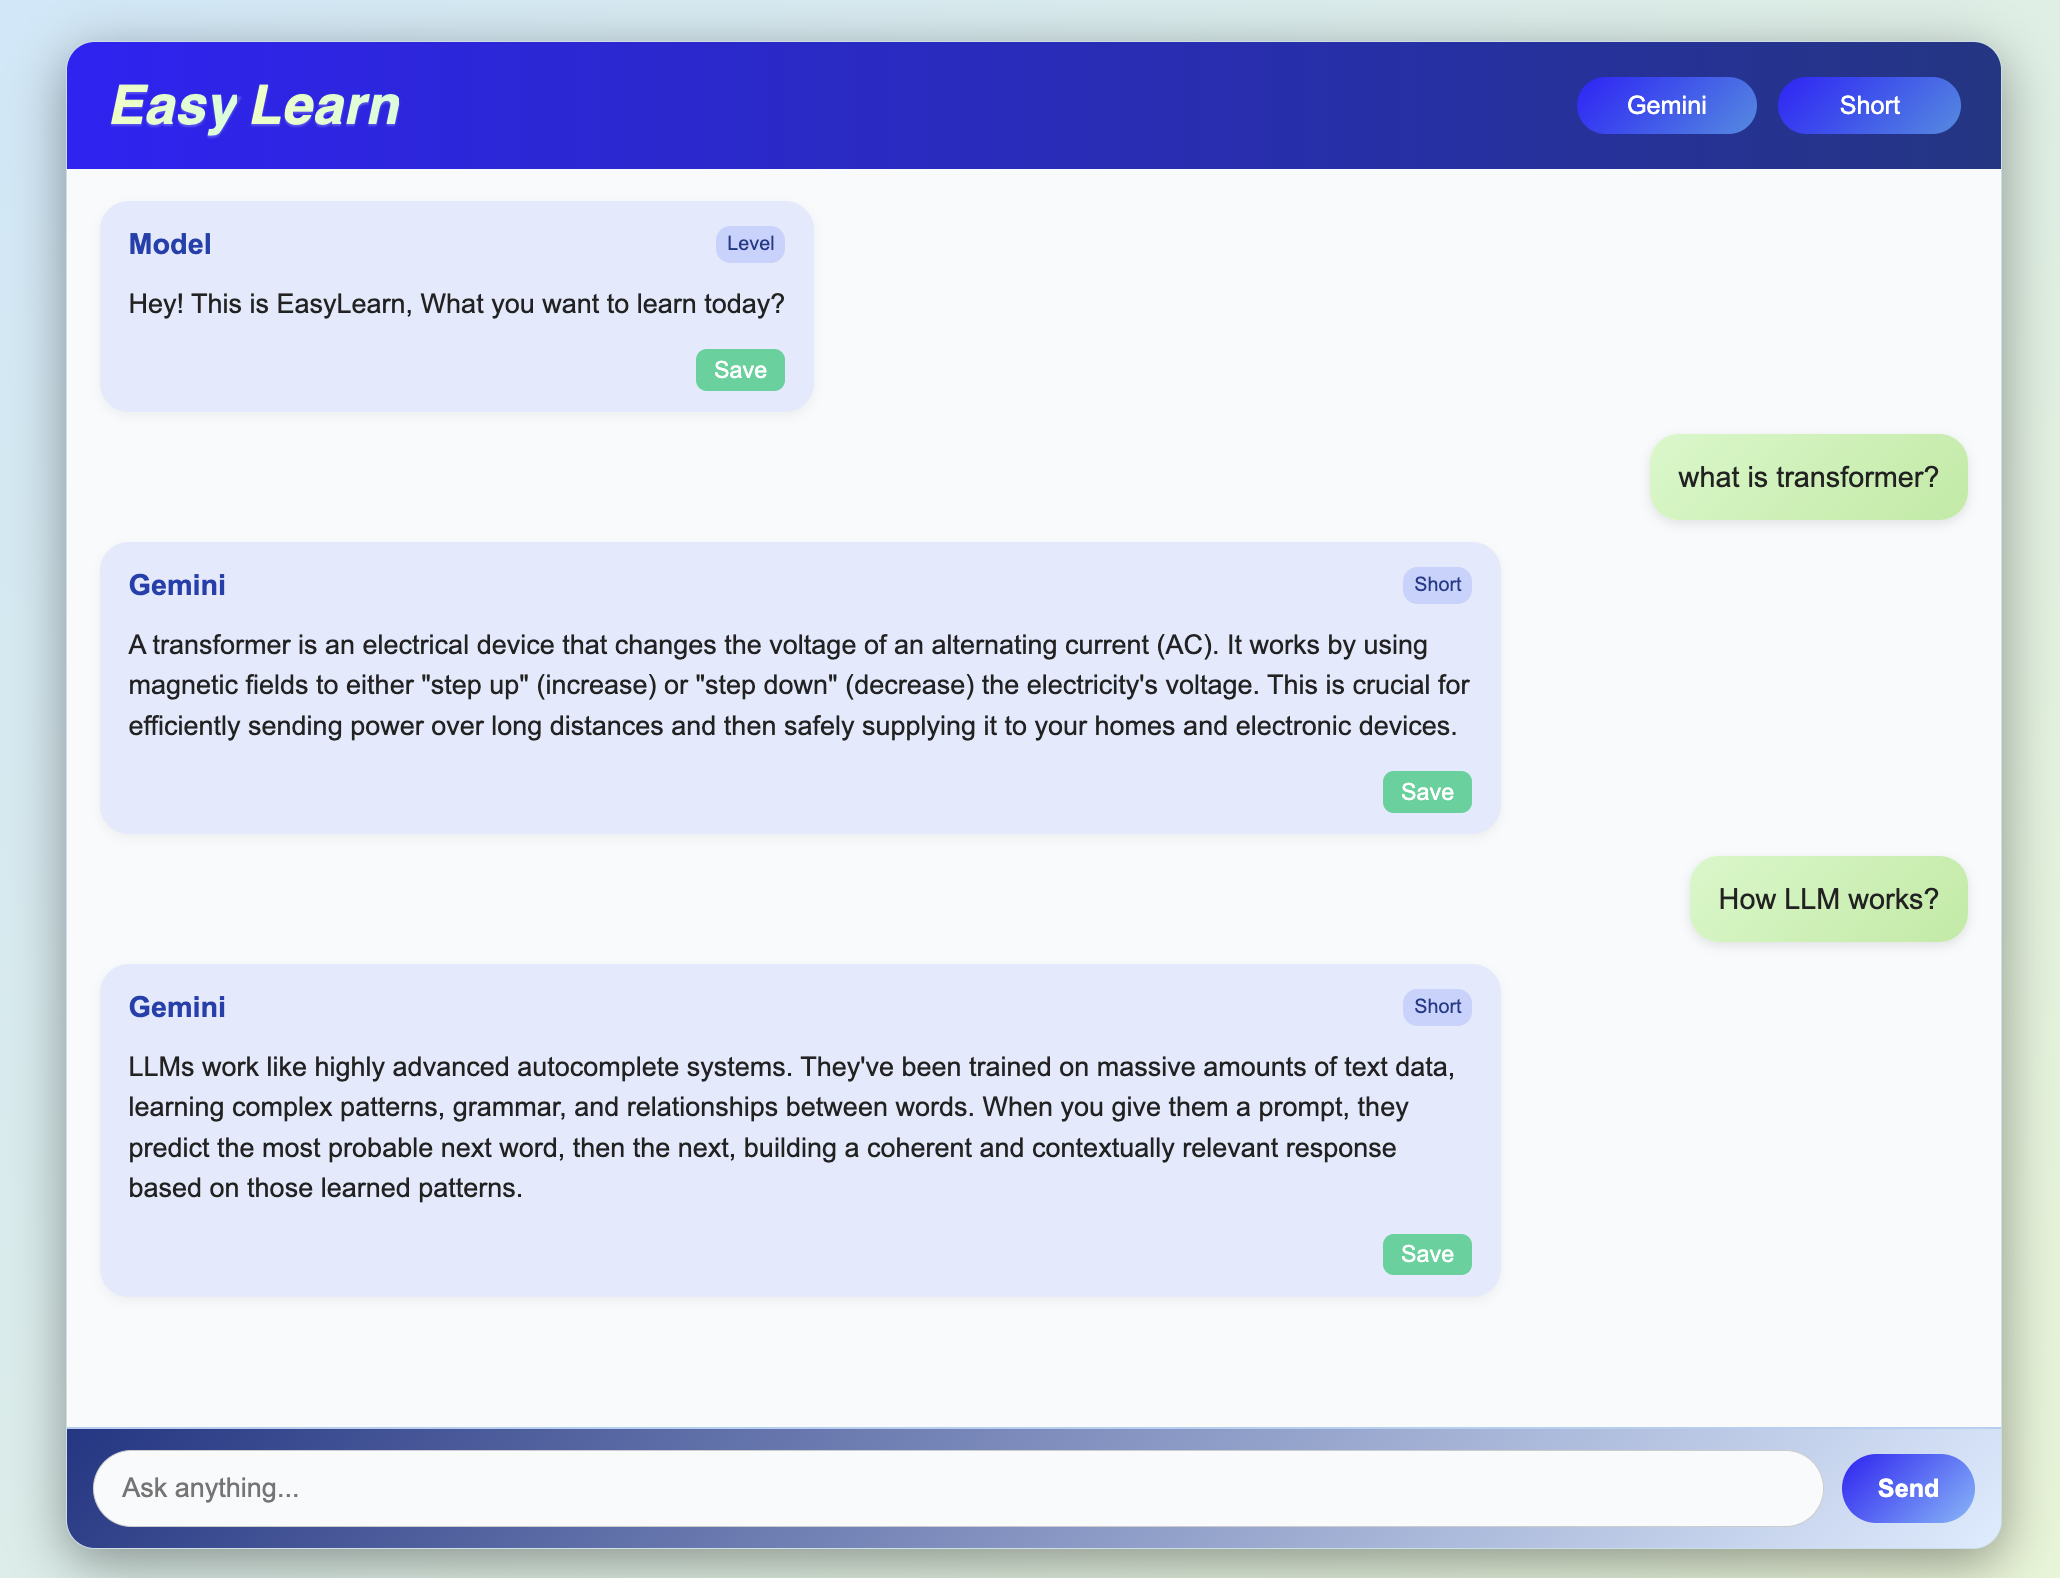
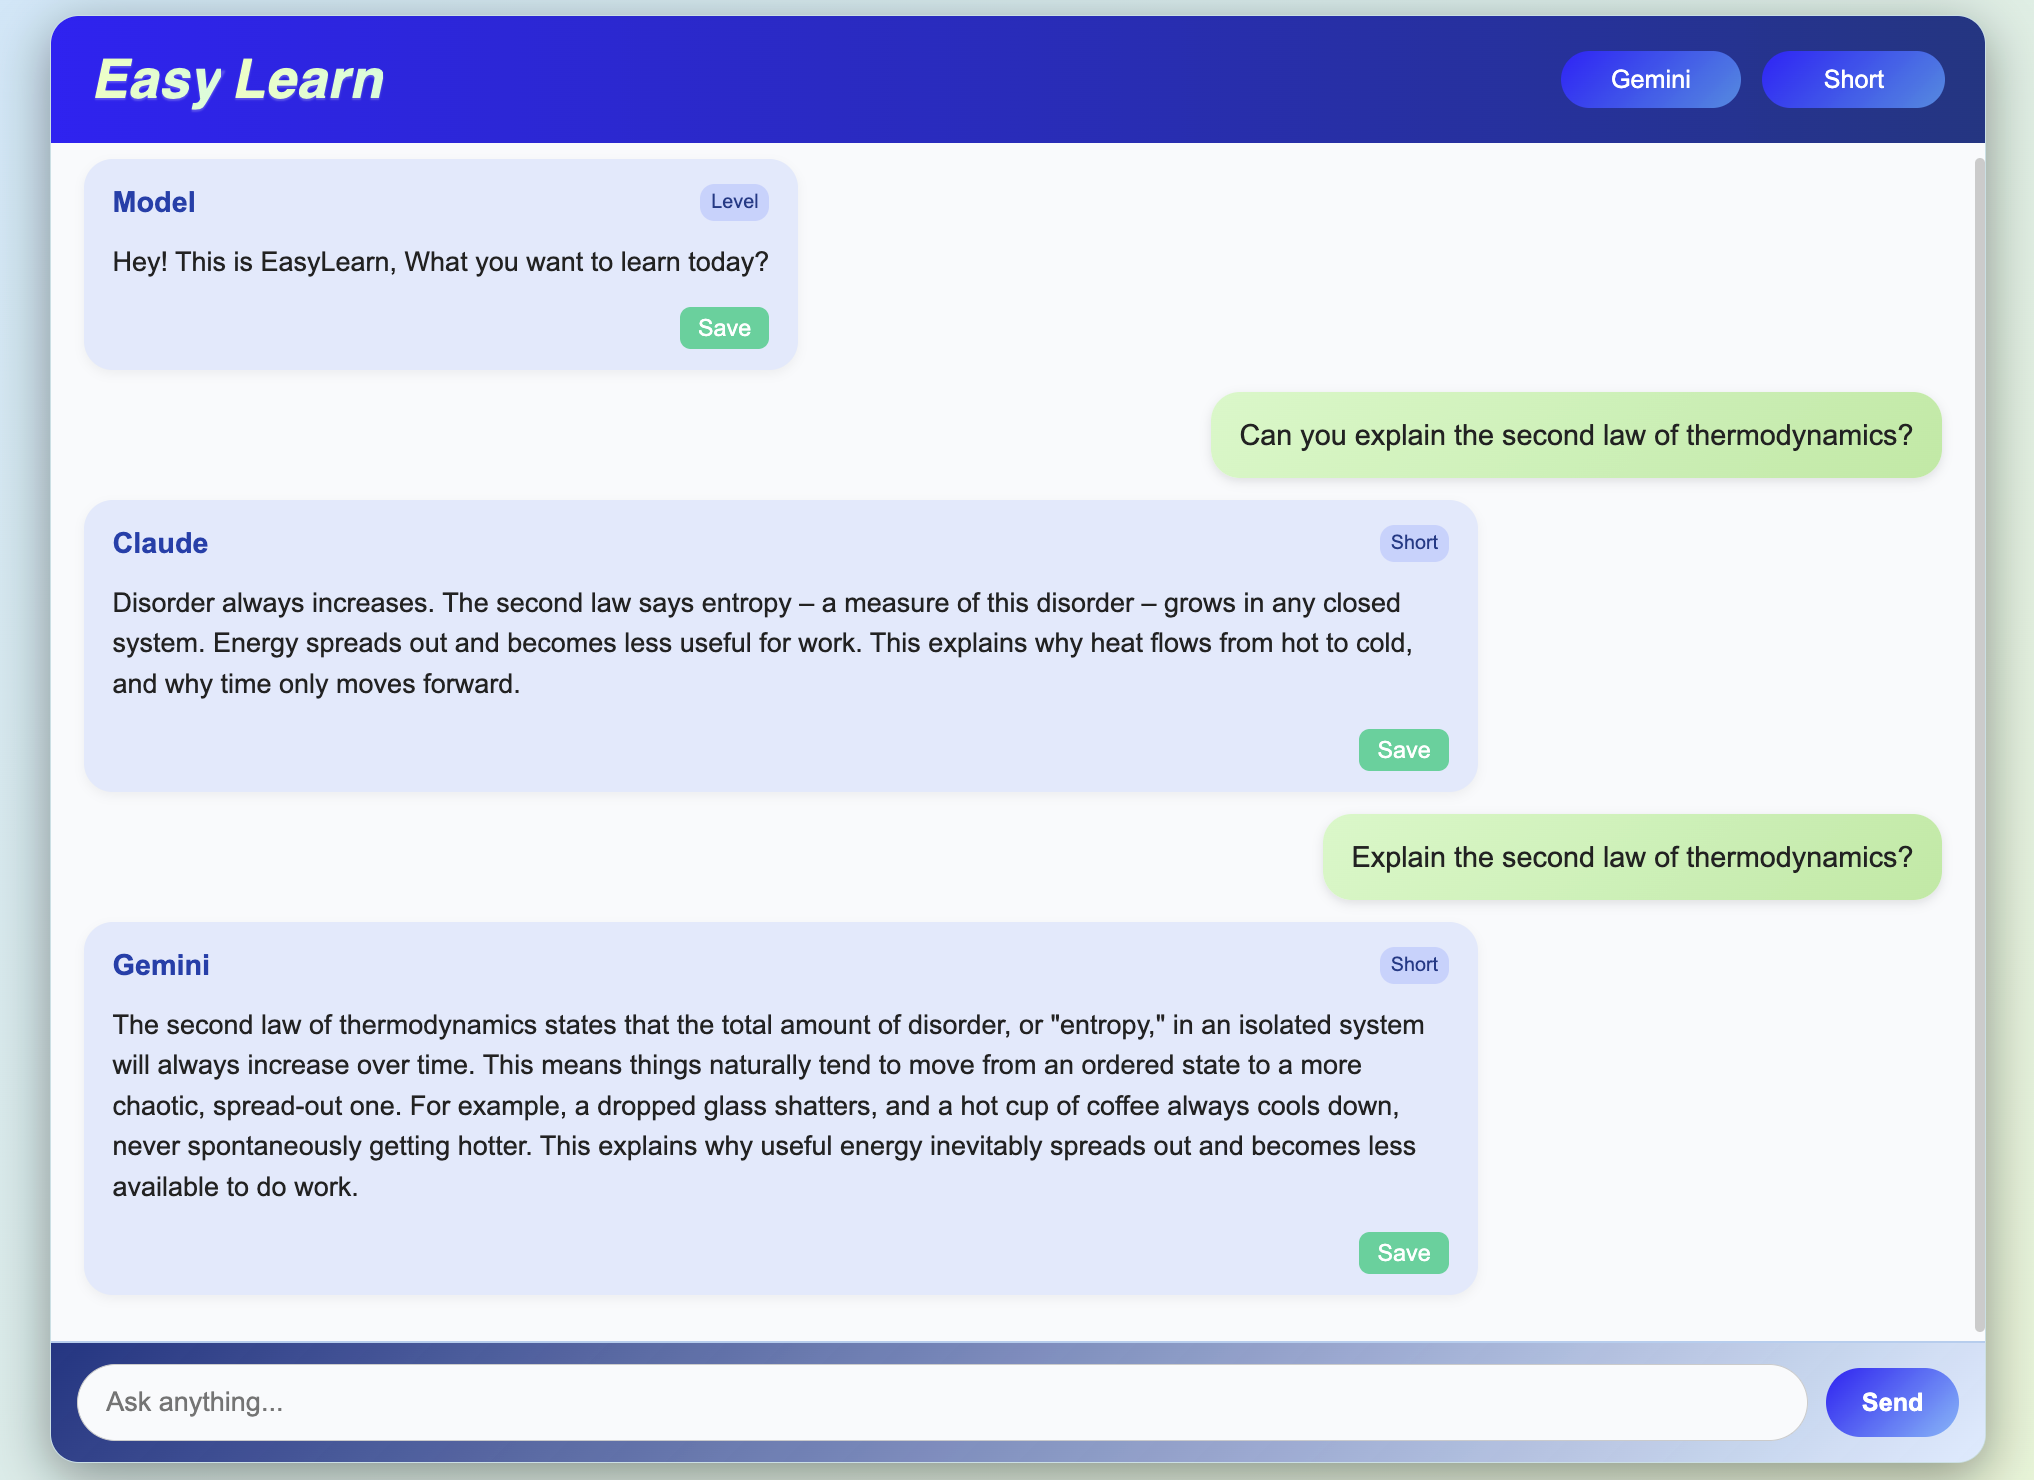
Updated backend with multiple AI models (Claude, DeepSeek); minor UI and code structure improvements

Changed region(s): [[0.0, 0.0, 0.9912, 0.9946]]

diff --git a/Frontend/my-app/src/Home/Home.jsx b/Frontend/my-app/src/Home/Home.jsx
@@ -1,12 +1,9 @@
 import { useState, useRef, useEffect } from "react";
 import "./Home.css";
 
-// Functions
 function Home() {
-  // UserQuery
+  // UserQuery, Model & Level
   const [query, setQuery] = useState("");
-
-  // Model & Level
   const [model, setModel] = useState("");
   const [level, setLevel] = useState("");
 
@@ -58,6 +55,7 @@ function Home() {
 
       // Updating AI response
       const data = await res.json();
+
       setMessages((prev) => [
         ...prev,
         {
@@ -68,7 +66,6 @@ function Home() {
         },
       ]);
     } catch (error) {
-      // Error Handling
       console.error("ERROR :", error);
       setMessages((prev) => [
         ...prev,
@@ -96,6 +93,7 @@ function Home() {
           <select value={model} onChange={(e) => setModel(e.target.value)}>
             <option value="Gemini">Gemini</option>
             <option value="DeepSeek">DeepSeek</option>
+            <option value="Claude">Claude</option>
           </select>
 
           {/* Select Level */}

diff --git a/Frontend/my-app/src/Home/Home.css b/Frontend/my-app/src/Home/Home.css
@@ -1,4 +1,3 @@
-/* Global Reset */
 * {
   box-sizing: border-box;
   margin: 0;

diff --git a/Backend/queryResponse.py b/Backend/queryResponse.py
@@ -3,6 +3,7 @@ from dotenv import load_dotenv
 from langchain.chat_models import init_chat_model
 from langchain_core.messages import HumanMessage, SystemMessage
 
+
 load_dotenv()
 
 # --- Cache for loaded models ---
@@ -13,10 +14,9 @@ MODEL_CACHE = {}
 # ------------------ Model Selection ------------------
 
 def get_model(model_name: str):
-    """
-    Return a cached model instance.
-    If not available, initialize and cache it.
-    """
+  
+    # Return a cached model instance. If not available, initialize and cache it.
+
     name = model_name.lower()
 
     # If model already initialized, return it
@@ -28,16 +28,31 @@ def get_model(model_name: str):
         key = os.environ.get("GOOGLE_API_KEY")
         if not key:
             raise ValueError("[ERROR] GOOGLE API key missing. Please set GOOGLE_API_KEY in your .env.")
-        model = init_chat_model("gemini-2.5-flash", model_provider="google_genai", api_key = key)
+        model = init_chat_model("gemini-2.5-flash", 
+                                model_provider="google_genai", 
+                                api_key = key
+                            )
     
     elif name == "deepseek":       
         key = os.environ.get("DEEPSEEK_API_KEY")
         if not key:
             raise ValueError("[ERROR] DeepSeek API key missing. Please set DEEPSEEK_API_KEY in your .env.")
-        model = init_chat_model("deepseek-chat", model_provider="deepseek", api_key = key)
+        model = init_chat_model("deepseek-chat", 
+                                model_provider="deepseek", 
+                                api_key = key
+                            )
    
+    elif name == "claude":
+        key = os.environ.get("HF_MOONSHOT_AI_TOKEN")
+        if not key:
+            raise ValueError("[ERROR] Hugging Face Moonshot AI API key missing. Please set HF_MOONSHOT_AI_TOKEN in your .env.")
+        model = init_chat_model("moonshotai/Kimi-K2-Thinking:novita",
+                                model_provider="openai",
+                                api_key = key,
+                                base_url="https://router.huggingface.co/v1"
+                            )
     else:
-        raise ValueError(f"Unknown model '{model_name}'. Please use 'Gemini' or 'DeepSeek'.")
+        raise ValueError(f"Unknown model '{model_name}'. Please use 'Gemini','DeepSeek' or 'Claude Kimi Moonshotai'.")
 
     # Cache it for future use
     MODEL_CACHE[name] = model

diff --git a/Backend/main.py b/Backend/main.py
@@ -20,7 +20,7 @@ class QueryRequest(BaseModel):
     
 @app.get("/")
 def root():
-    return {"Welcome": "EasyLearn"}
+    return {"EasyLearn": "A platform for learners by Rishabh Surana"}
     
 @app.post("/ask")
 async def ask_question(request: QueryRequest):
